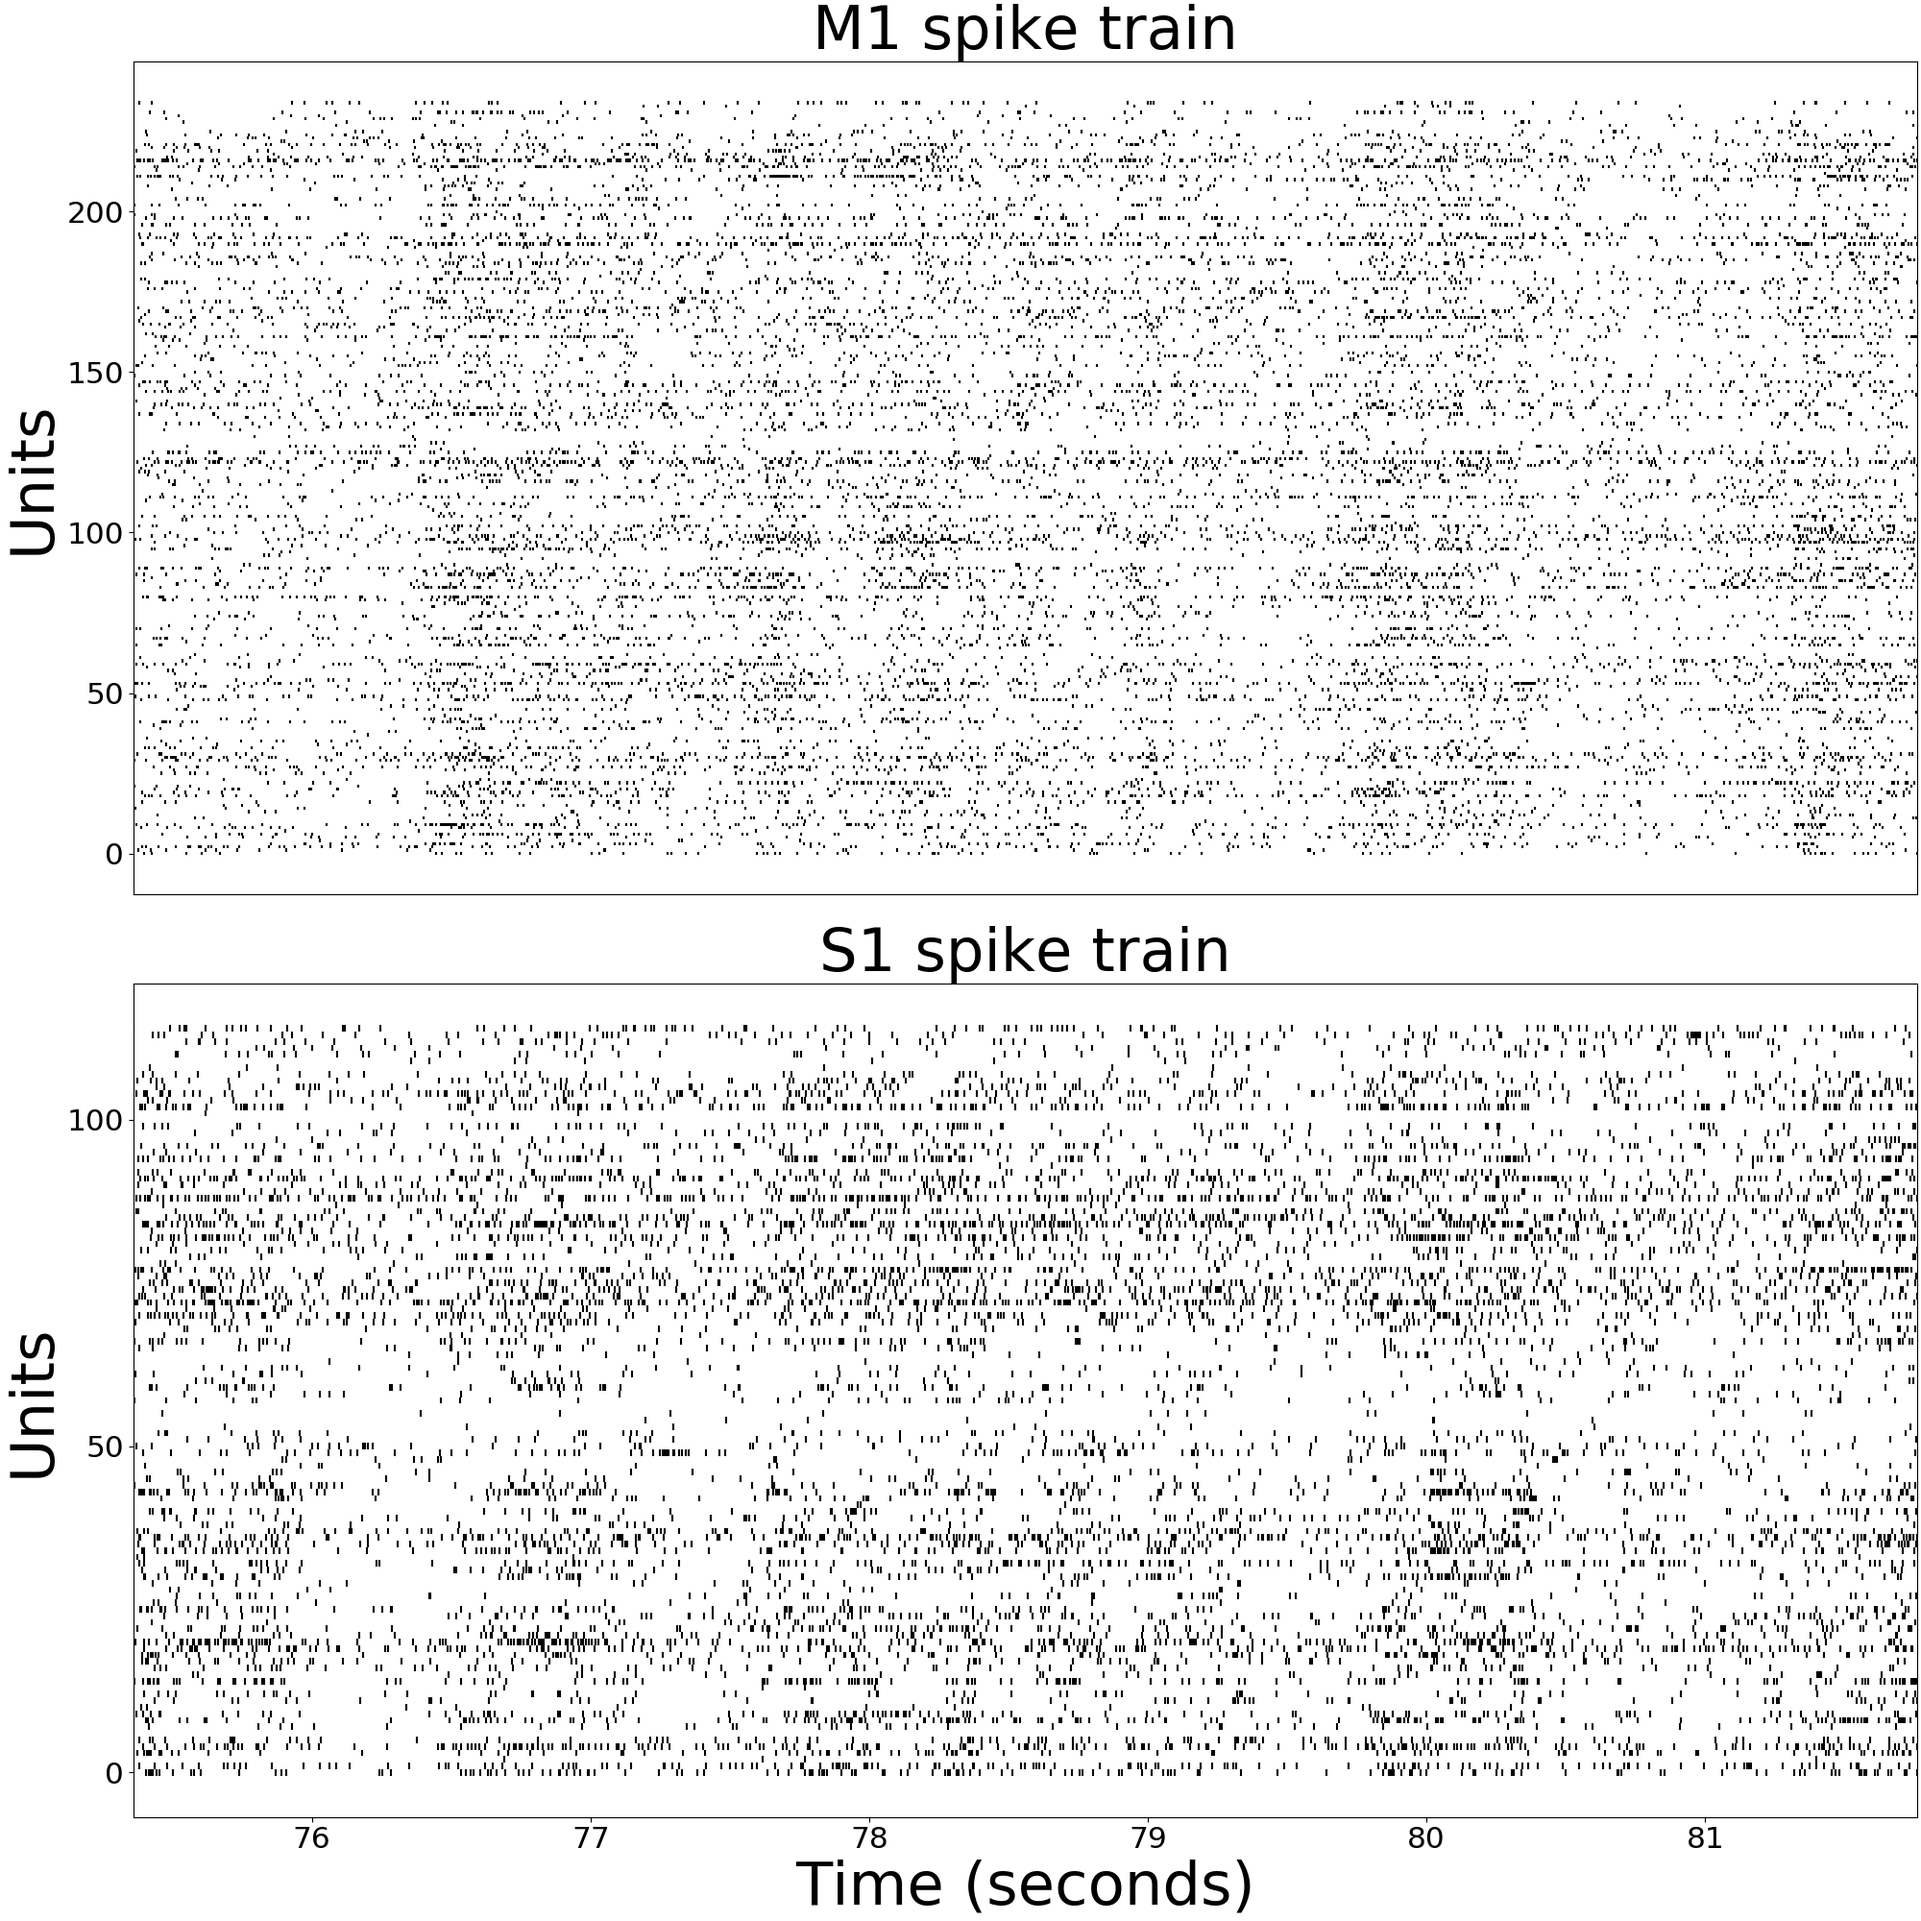
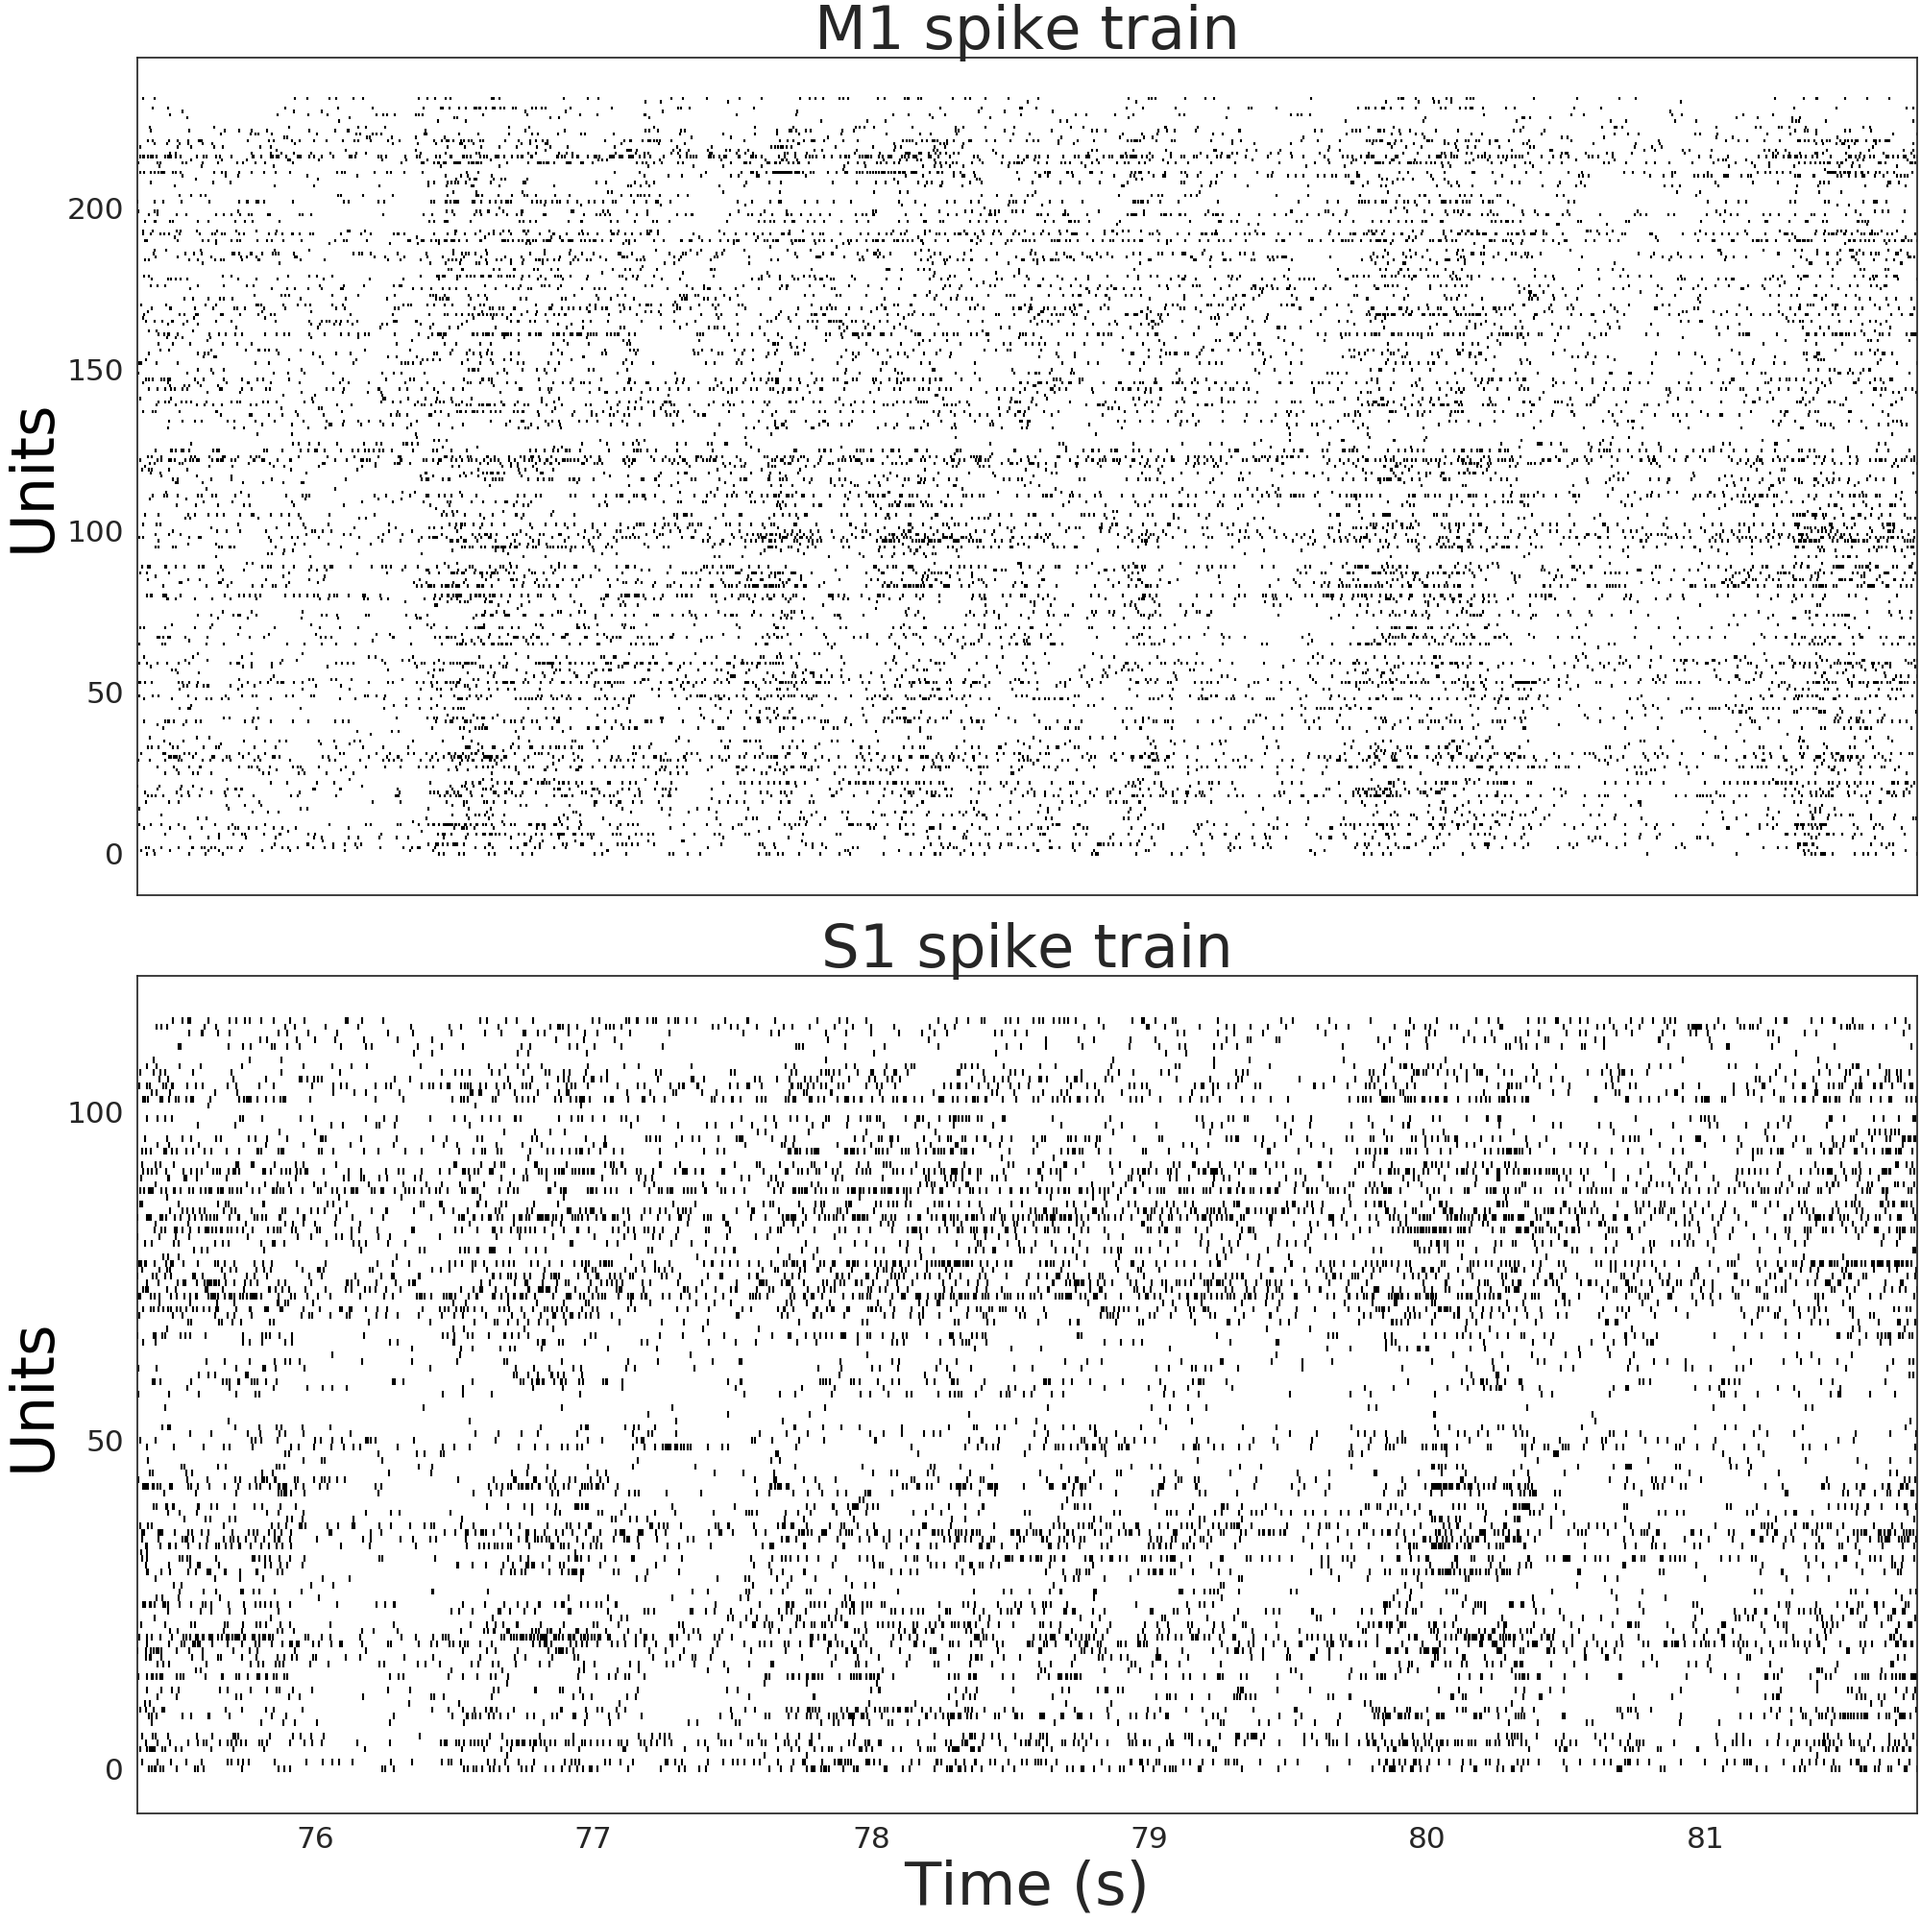
new

diff --git a/Python_code/Read_mat_file_and_Plot/Plotting_Raster_Plot_and_Firing_Rate_Heatmap.py b/Python_code/Read_mat_file_and_Plot/Plotting_Raster_Plot_and_Firing_Rate_Heatmap.py
@@ -7,6 +7,7 @@ import matplotlib.pyplot as plt
 import matplotlib.ticker as ticker
 import seaborn as sns
 
+
 path=r'''../../Figures/Spike_and_Heatmap/'''
 if not os.path.exists(path):
     os.mkdir(path)
@@ -174,8 +175,10 @@ my_fontsize = 45
 # f ,ax = plt.subplots(2,1, gridspec_kw={'height_ratios': [1,1],  "hspace":0.2 ,"left":0.1, "right":0.9, "top":0.95, "bottom":0.05}, constrained_layout=True , figsize=(my_plot_width, my_plot_height*2))
 
 plt.figure( figsize=(my_plot_width, my_plot_height) )
-cbar_kws={"orientation": "horizontal", "shrink": 0.5, "aspect":50, "use_gridspec":"True", "fraction":0.01 , "pad":0.03, 'ticks' : [ 0, 4 ]}
-ax = sns.heatmap( data=data, vmax=4 , xticklabels=False, yticklabels=True, cbar=False, cmap='YlGnBu_r') # important, not ax[0] = sns.heatmap(...)
+sns.set(font_scale=5)
+sns.set_style("white")
+cbar_kws={"orientation": "vertical", "shrink": 0.5, "aspect":25,"use_gridspec":"True", "fraction":0.1 , "pad":0.07, 'ticks' : [ 0, 4 ]}
+ax = sns.heatmap( data=data, vmax=4 , xticklabels=False, yticklabels=True, cbar=True, cbar_kws=cbar_kws, cmap='YlGnBu_r') # important, not ax[0] = sns.heatmap(...)
 # ax[0].set_xticklabels(ax[0].get_xmajorticklabels(), fontsize = my_fontsize, rotation=0)
 ax.set_title('Firing rate', fontsize=my_fontsize)
 
@@ -200,7 +203,7 @@ plt.close()
 
 
 f ,ax = plt.subplots(2,1, gridspec_kw={'height_ratios': [1, 1],  "hspace":0.2 ,"left":0.1, "right":0.9, "top":0.95, "bottom":0.05}, constrained_layout=True , figsize=(my_plot_width, my_plot_height))
-
+sns.set_style("white")
 ax[0].set_title('M1 spike train', fontsize=my_fontsize)
 ax[0].eventplot(m1_raster, linelengths=1 , color='black')
 ax[0].set_xlim([ start_plot_time, end_plot_time ])
@@ -220,7 +223,7 @@ ax[1].tick_params(axis='x', labelsize= my_fontsize*0.5)
 ax[1].tick_params(axis='y', labelsize= my_fontsize*0.5)
 ax[1].yaxis.set_major_locator(ticker.MultipleLocator(50))
 ax[1].yaxis.set_major_formatter(ticker.ScalarFormatter())
-ax[1].set_xlabel('Time (seconds)', fontsize=my_fontsize )
+ax[1].set_xlabel('Time (s)', fontsize=my_fontsize )
 
 # plt.show()
 plt.savefig( path+'/'+'s1_and_m1_spike_train.png')
